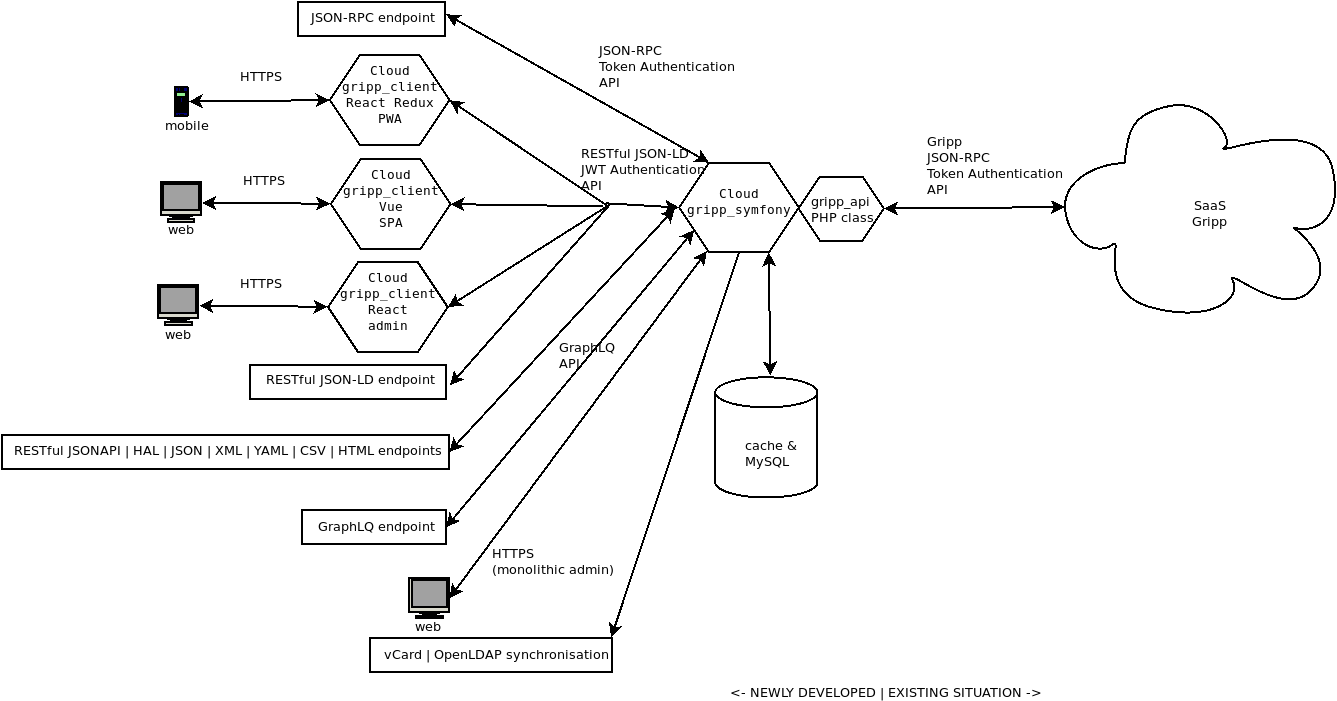
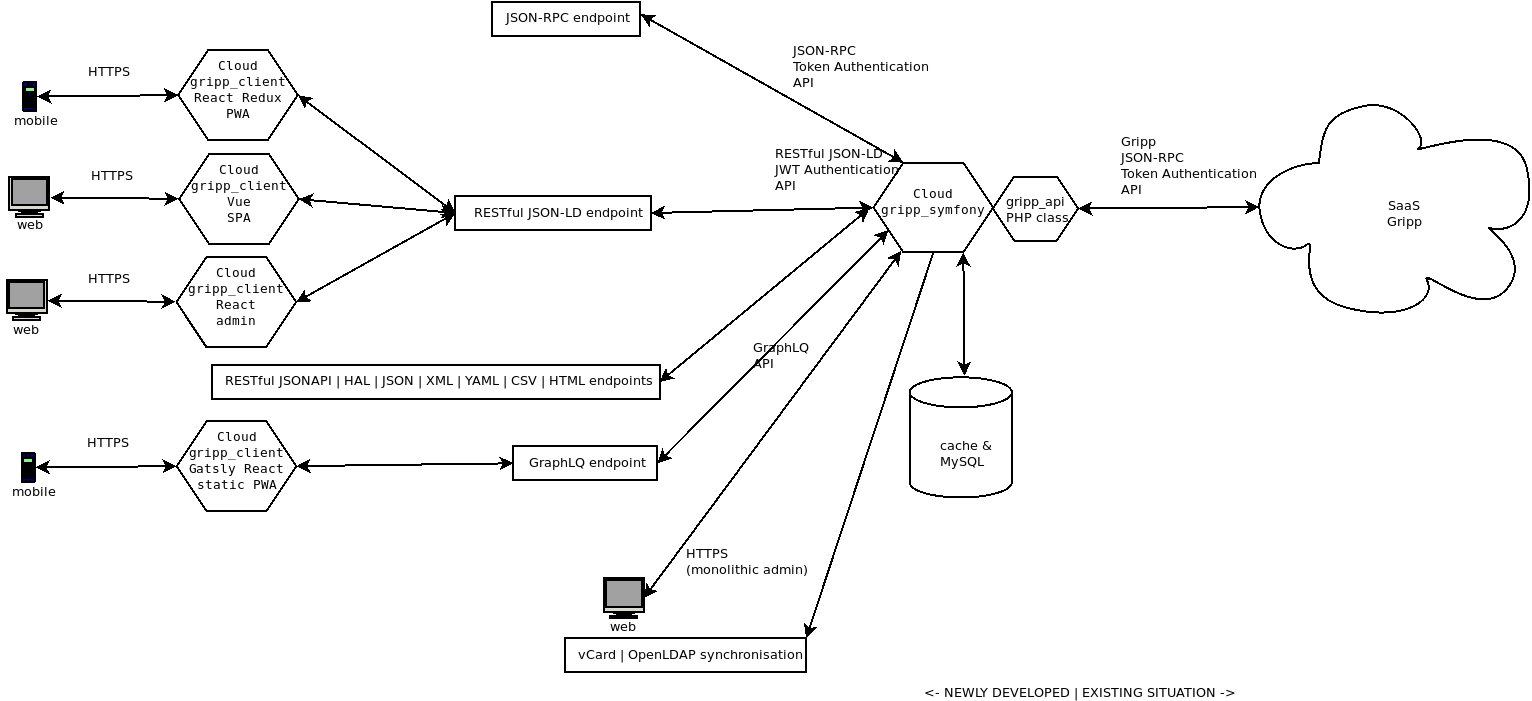
Gatsby GraphQL React client update in readme.

diff --git a/README.md b/README.md
@@ -37,6 +37,8 @@ The application consumes the Gripp API as client but has various API server inte
     * [CSV](https://tools.ietf.org/html/rfc4180)
     * [HTML](https://whatwg.org/)
 * [GraphQL](https://en.wikipedia.org/wiki/GraphQL) with it's own [GraphiQL](https://github.com/graphql/graphiql/tree/master/packages/graphiql#readme) in-browser IDE
+        - accepts clients
+         - [Gripp client Gatsby React](https://github.com/noud/gripp_client_react_gatsby/blob/master/README.md) static [Progressive Web App (PWA)](https://en.wikipedia.org/wiki/Progressive_web_applications), mobile app
 
 ## export
 
